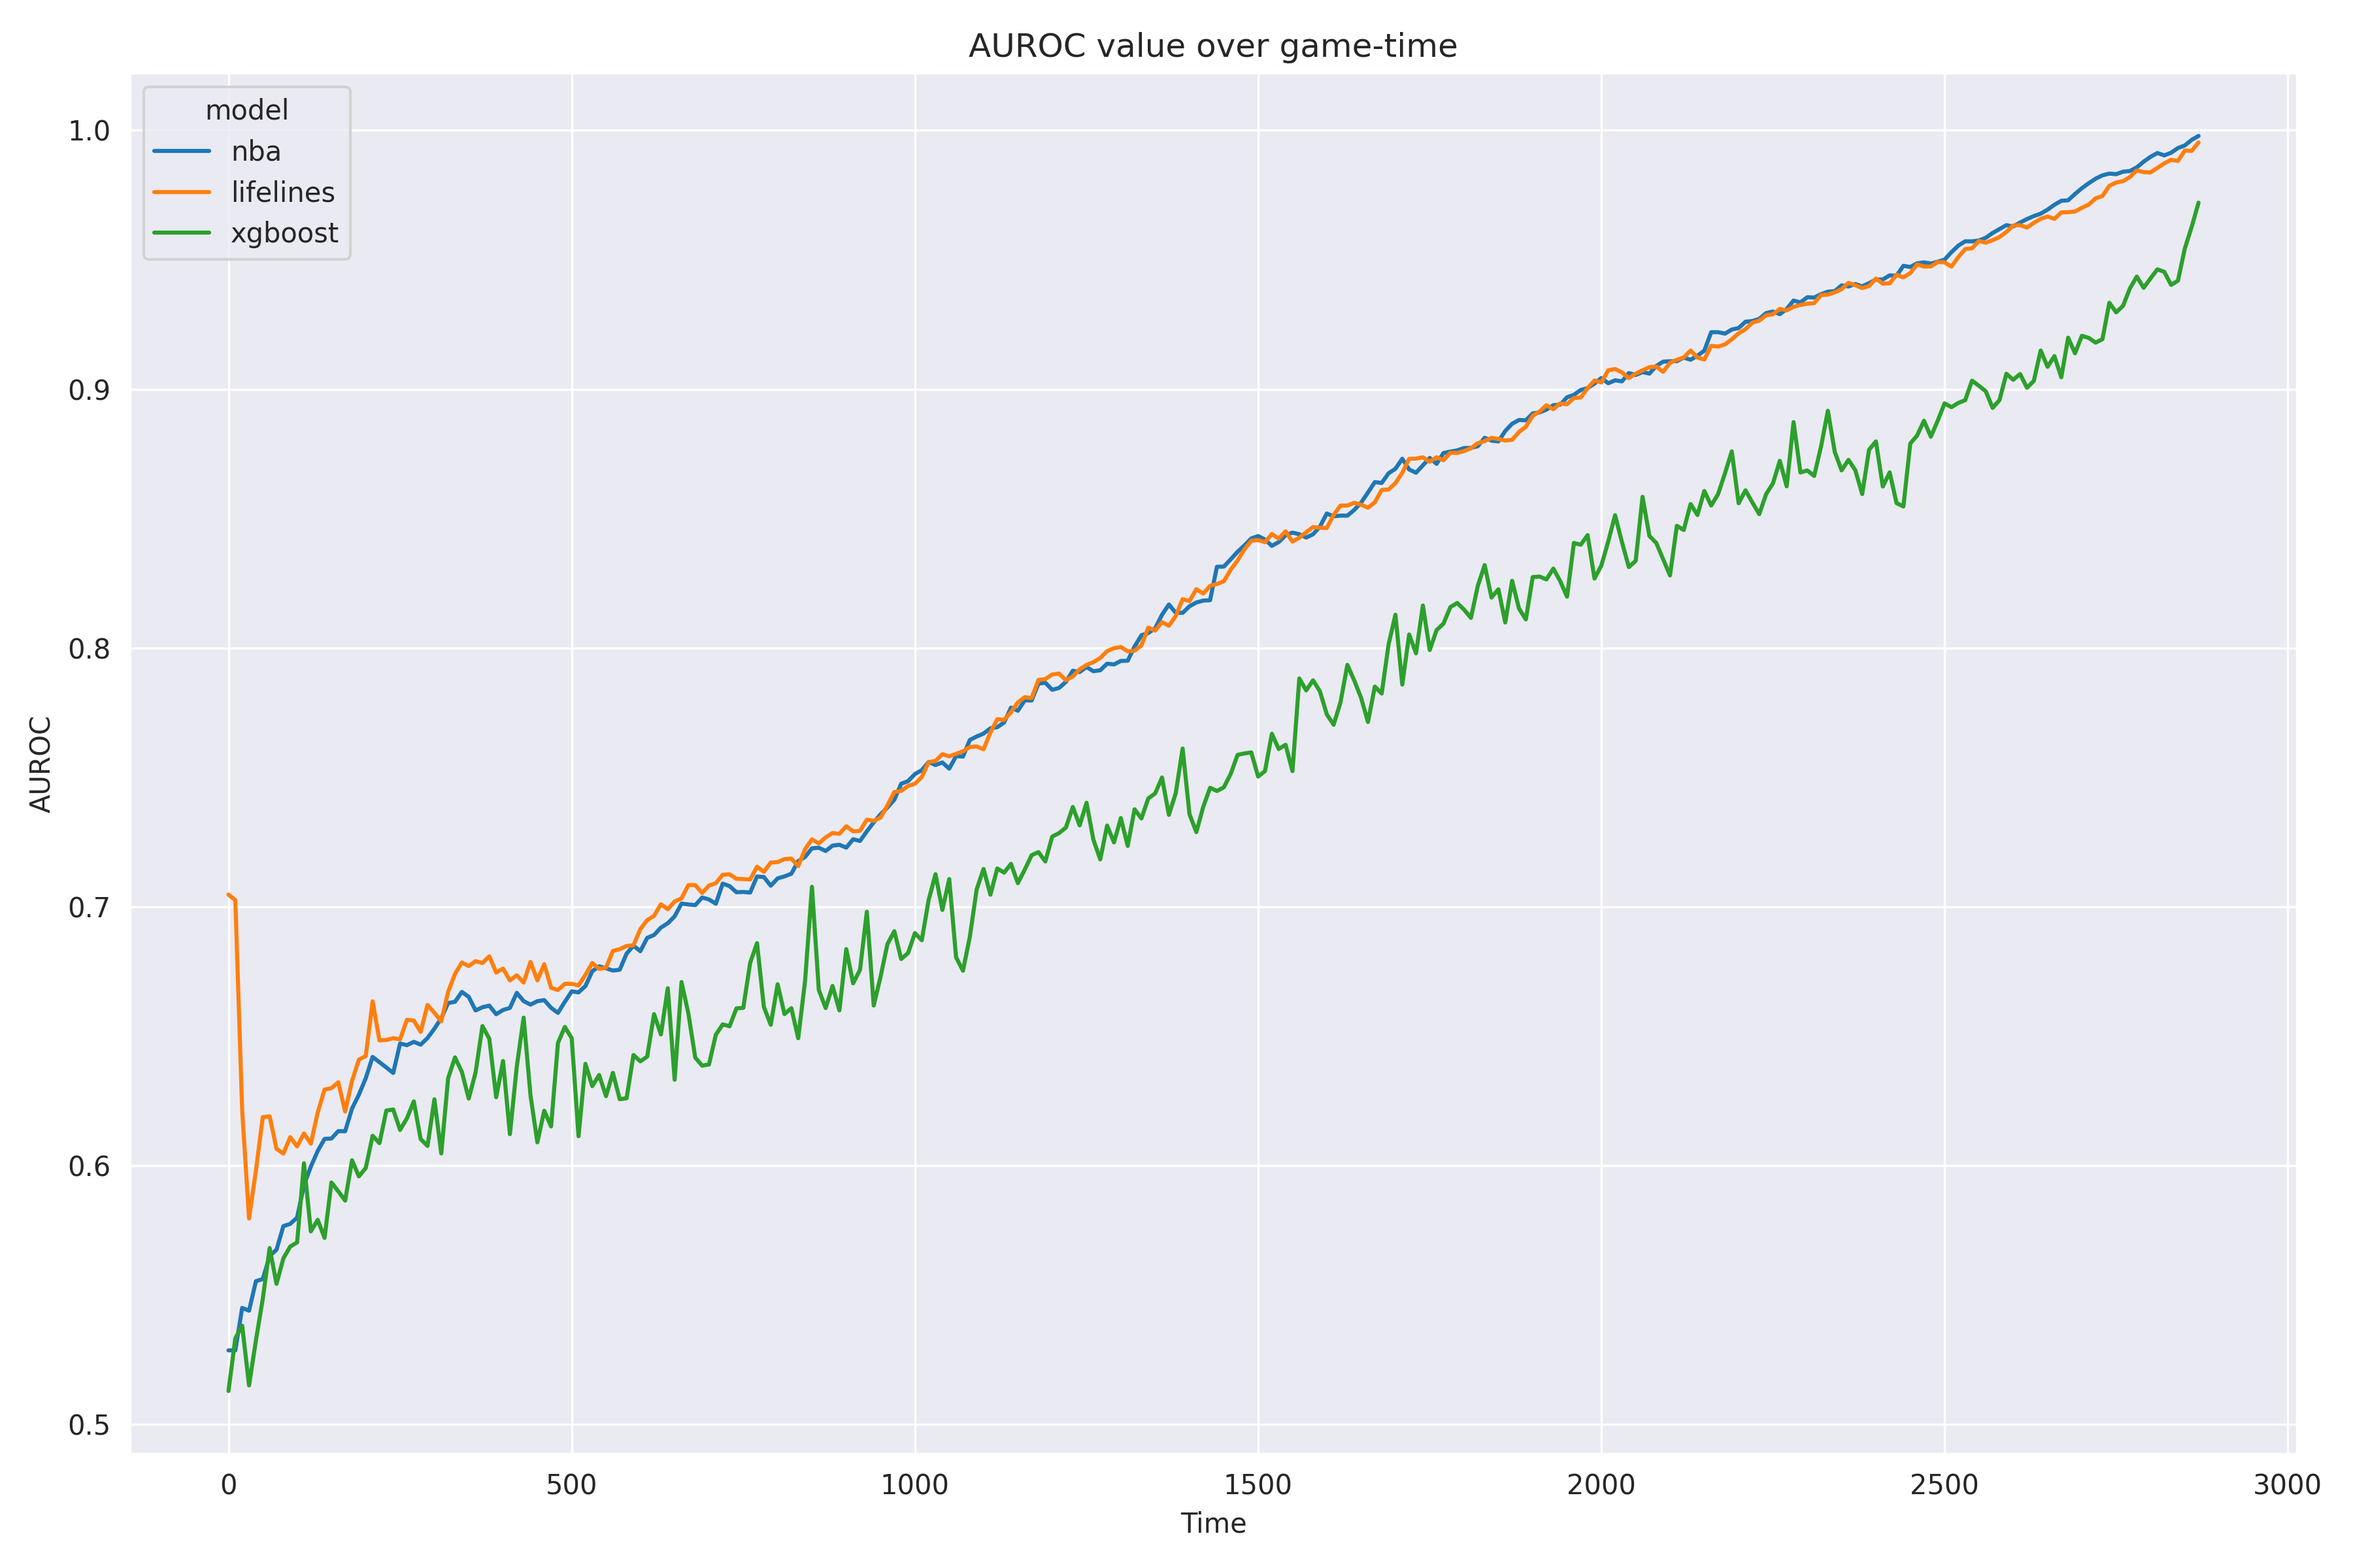
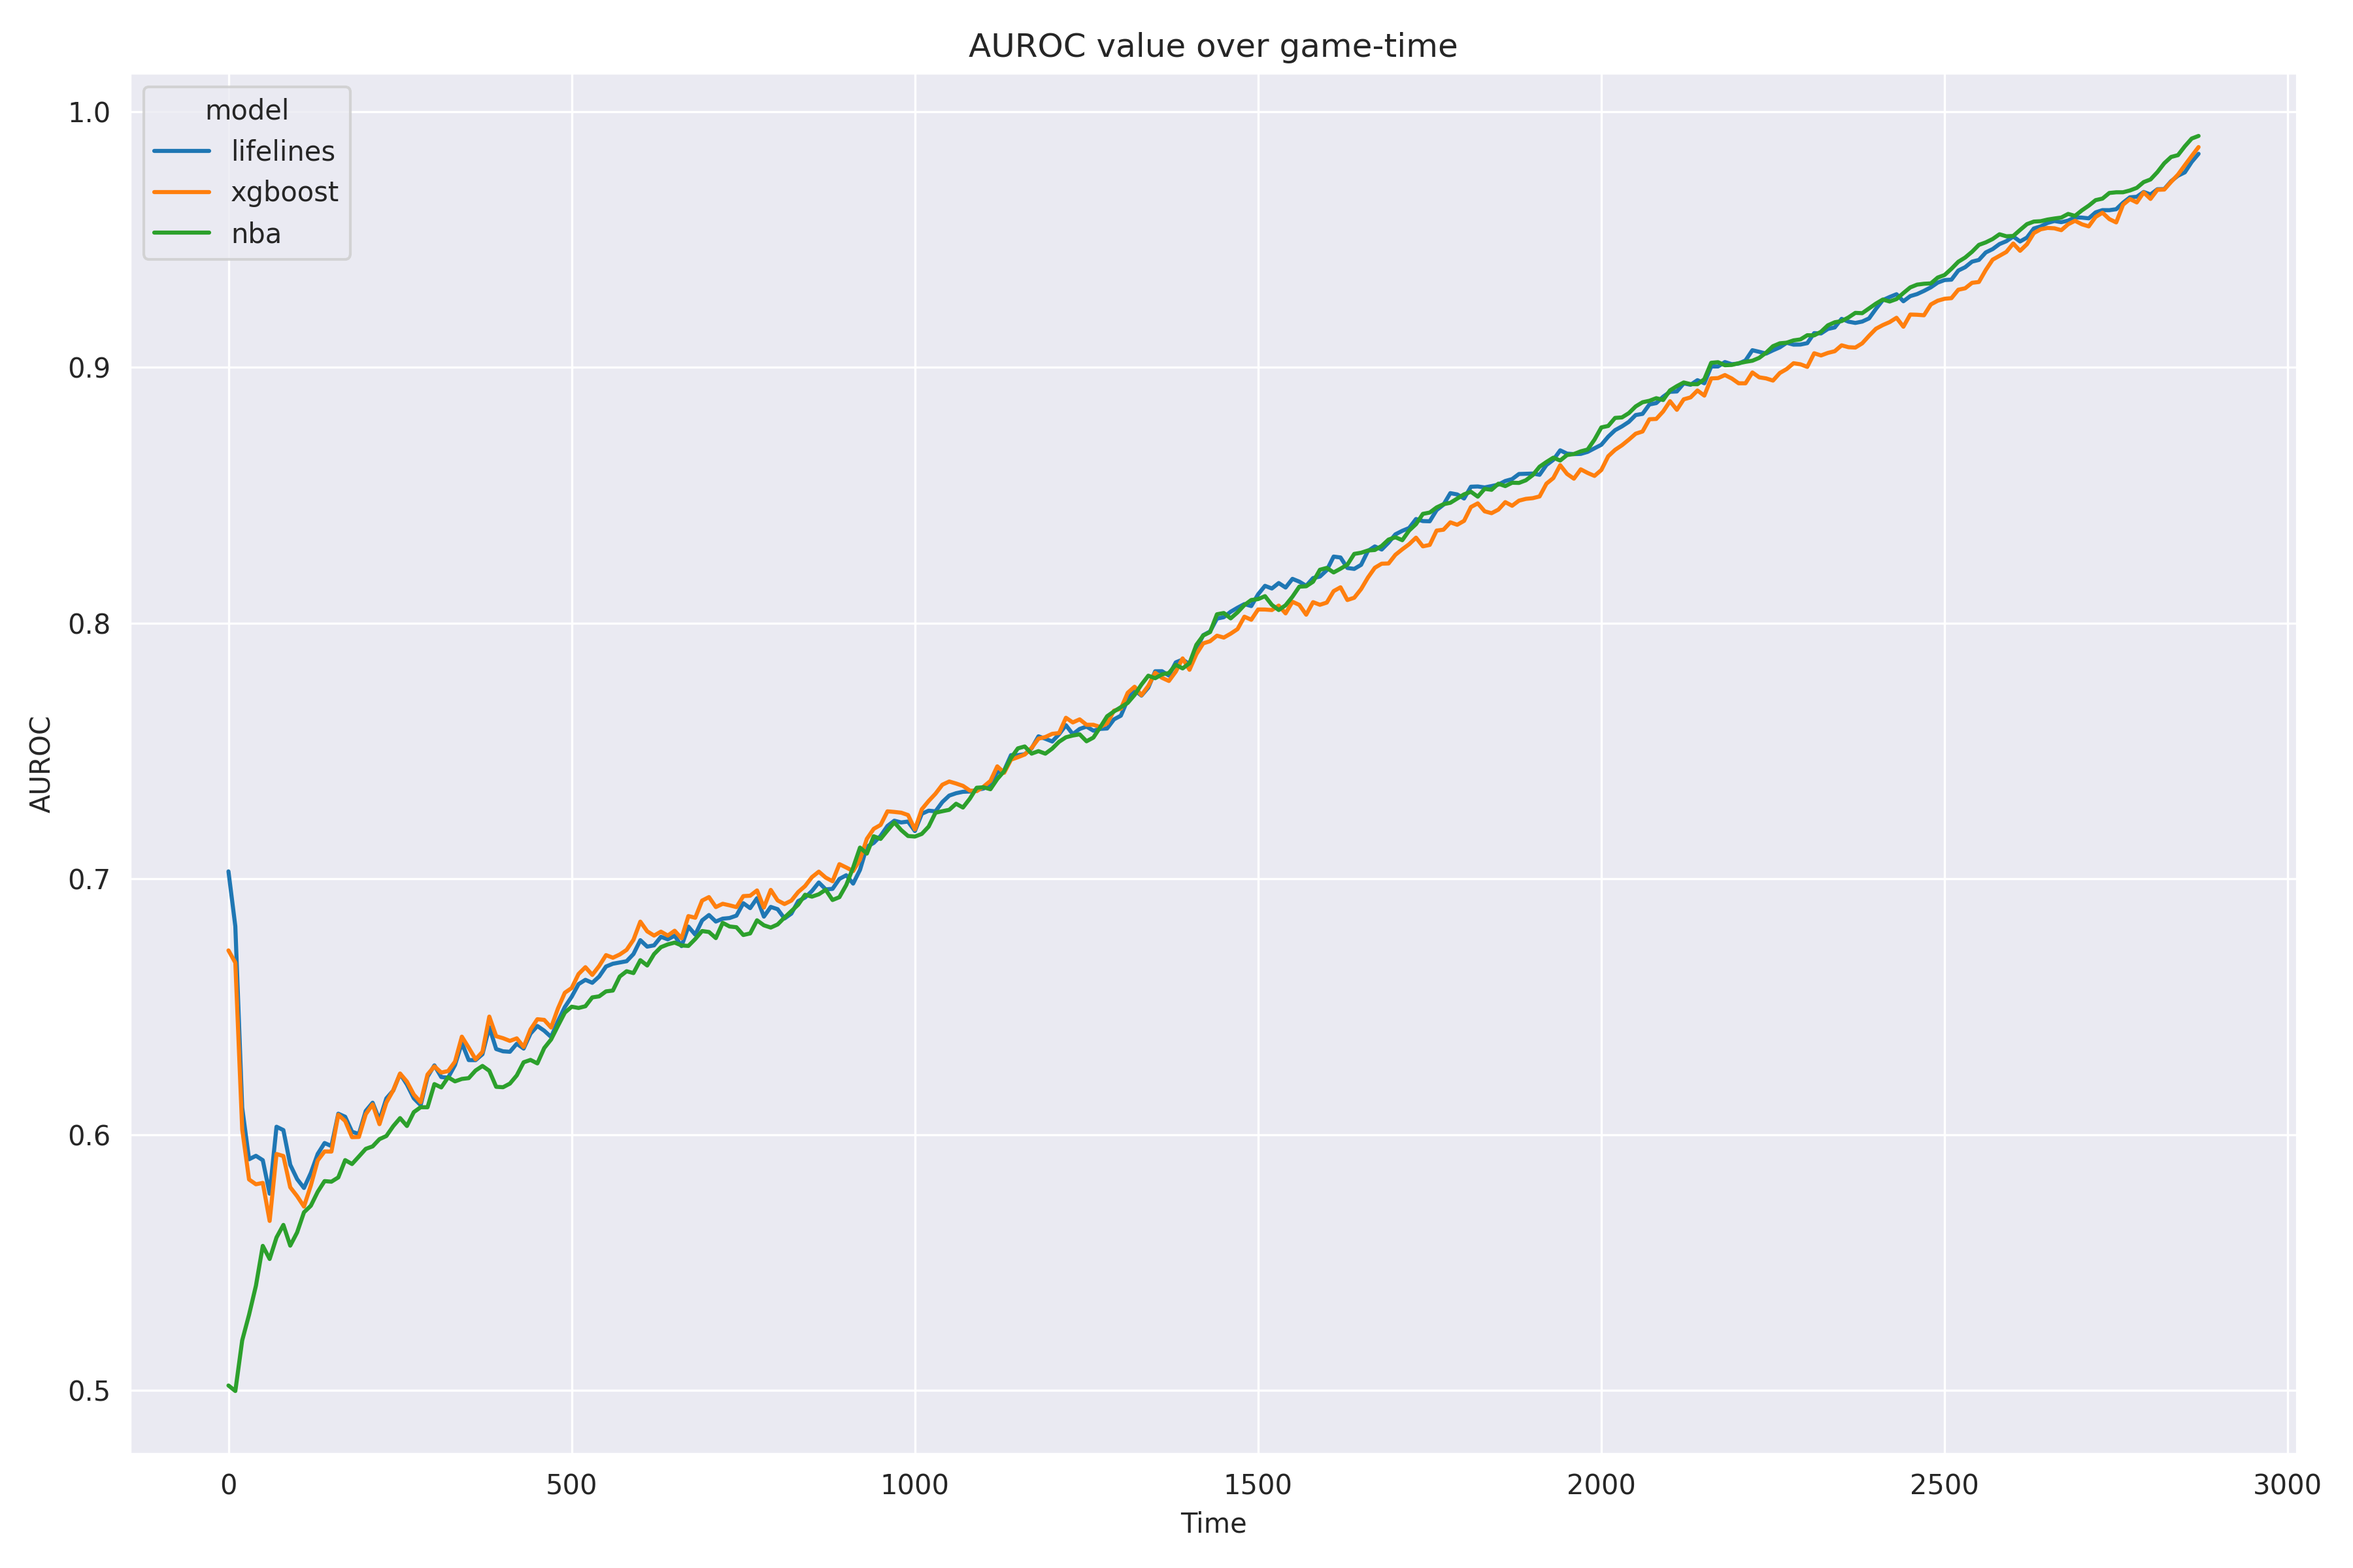
Updating performance charts, running black, fixing flake8 and mypy issues

diff --git a/nbaspa/model/tasks/tuning.py b/nbaspa/model/tasks/tuning.py
@@ -32,7 +32,8 @@ DEFAULT_XGBOOST_SPACE: Dict = {
 
 class LifelinesTuning(Task):
     """Use ``hyperopt`` to choose ``lifelines`` hyperparameters."""
-    best_: Dict = None
+
+    best_: Dict = {}
     metric_: float = 1e20
 
     def run(  # type: ignore
@@ -90,7 +91,7 @@ class LifelinesTuning(Task):
 
             if metric < self.metric_:
                 self.metric_ = metric
-                self.best_ = params
+                self.best_.update(params)
 
             return {
                 "loss": metric,
@@ -122,7 +123,8 @@ class LifelinesTuning(Task):
 
 class XGBoostTuning(Task):
     """Use ``hyperopt`` to choose ``xgboost`` hyperparameters."""
-    best_: Dict = None
+
+    best_: Dict = {}
     metric_: float = 1e20
 
     def run(  # type: ignore
@@ -176,7 +178,6 @@ class XGBoostTuning(Task):
             dstop = xgb.DMatrix(stop[META["static"] + META["dynamic"]], stop["stop"])
             evals.append((dstop, "stopping"))
 
-
         # Create an internal function for fitting, trainin, evaluating
         def func(params):
             model = xgb.train(
@@ -204,7 +205,7 @@ class XGBoostTuning(Task):
 
             if metric < self.metric_:
                 self.metric_ = metric
-                self.best_ = params
+                self.best_.update(params)
 
             return {
                 "loss": metric,

diff --git a/nbaspa/model/tasks/visualization.py b/nbaspa/model/tasks/visualization.py
@@ -105,11 +105,23 @@ class PlotTuning(Task):
         params = set(trials.trials[0]["misc"]["vals"].keys())
         # Parse trials object
         data = {
-            "trial": [trial["tid"] for trial in trials.trials if "loss" in trial.get("result", {})],
-            "loss": [trial["result"]["loss"] for trial in trials.trials if "loss" in trial.get("result", {})],
+            "trial": [
+                trial["tid"]
+                for trial in trials.trials
+                if "loss" in trial.get("result", {})
+            ],
+            "loss": [
+                trial["result"]["loss"]
+                for trial in trials.trials
+                if "loss" in trial.get("result", {})
+            ],
         }
         for param in params:
-            data[param] = [trial["misc"]["vals"][param][0] for trial in trials.trials if "loss" in trial.get("result", {})]
+            data[param] = [
+                trial["misc"]["vals"][param][0]
+                for trial in trials.trials
+                if "loss" in trial.get("result", {})
+            ]
 
         df = pd.DataFrame(data)
         df["best"] = False

diff --git a/nbaspa/data/endpoints/parameters.py b/nbaspa/data/endpoints/parameters.py
@@ -36,8 +36,8 @@ SEASONS: Dict = {
     },
     "2019-20": {
         "START": datetime.datetime(year=2019, month=10, day=22),
-        "END": datetime.datetime(year=2020, month=3, day=10)
-    }
+        "END": datetime.datetime(year=2020, month=3, day=10),
+    },
 }
 
 

diff --git a/nbaspa/model/tasks/xgboost.py b/nbaspa/model/tasks/xgboost.py
@@ -2,7 +2,6 @@
 
 from typing import Dict, Optional
 
-from lifelines.utils import interpolate_at_times
 import numpy as np
 import pandas as pd
 from prefect import Task

diff --git a/docs/_model/performance.rst b/docs/_model/performance.rst
@@ -6,10 +6,9 @@ Performance
 Overview
 --------
 
-* The XGBoost model is underperforming relative to expectation. Hyperparameter tuning is
-  one potential source of improvement; another source is additional data.
-* The Lifelines model closely mirrors the performance of the NBA model, with a noticeable
-  advantage in pre-game prediction.
+* The XGBoost and Lifelines models are performing similarly.
+* Both models perform similarly to the NBA's win probability, with a noticeable uptick in
+  pre-game performance.
 
 -----------
 Performance
@@ -17,7 +16,7 @@ Performance
 
 .. important::
 
-    At this time the models have been trained on the 2016-17, 2017-18, and 2018-19 seasons.
+    At this time the models have been trained on the 2015-16, 2016-17, 2017-18, and 2018-19 seasons.
 
 Figure 1 shows the AUROC over game-time for each model.
 
@@ -48,14 +47,14 @@ Hyperparameter tuning
 ---------------------
 
 Figure 3 shows the hyperparameter tuning results for the ``lifelines`` model. The tuning was done
-using 100 evaluations.
+using 1 000 evaluations.
 
 .. image:: ../_static/lifelines-tuning.png
     :align: center
     :alt: Figure 3
 
 Figure 4 shows the hyperparameter tuning results for the ``xgboost`` model. The tuning was done
-using 300 evaluations.
+using 10 000 evaluations.
 
 .. image:: ../_static/xgboost-tuning.png
     :align: center
